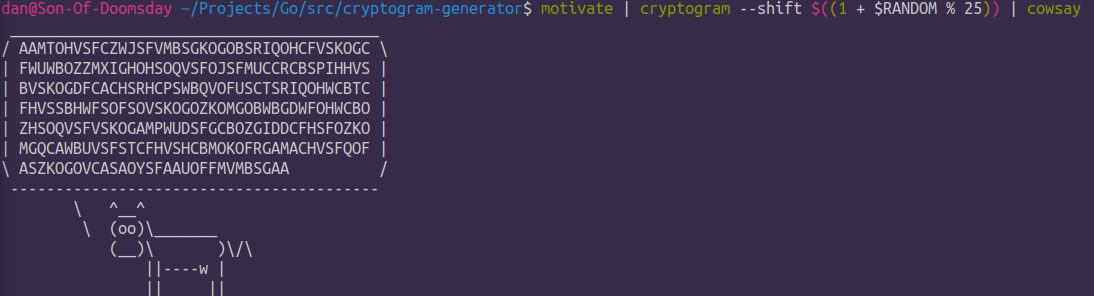
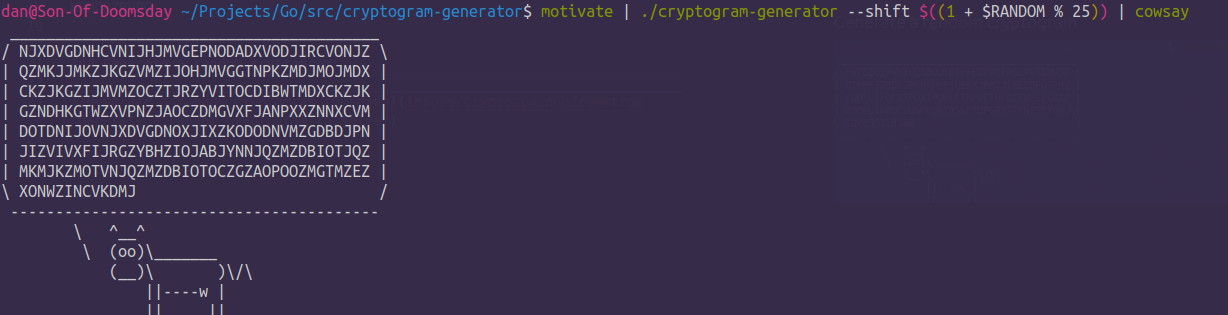
Strip ANSI Color codes and non-alphannumeric chars from stdin

Changed region(s): [[0.0, 0.1216, 0.3419, 1.0], [0.0, 0.0, 0.9945, 0.0608]]

diff --git a/main.go b/main.go
@@ -6,6 +6,7 @@ import (
 	"fmt"
 	"io/ioutil"
 	"os"
+	"regexp"
 	"strings"
 )
 
@@ -31,7 +32,7 @@ func main() {
 			reader := bufio.NewReader(os.Stdin)
 
 			if b, err := ioutil.ReadAll(reader); err != nil {
-				fmt.Println(err)
+				panic(err)
 			} else {
 				msg = strings.TrimSpace(string(b))
 			}
@@ -70,6 +71,8 @@ func generateKey(n int) map[rune]rune {
 func encrypt(key map[rune]rune, msg string) string {
 
 	msg = strings.ToUpper(msg)
+	msg = sanitizeInput(msg)
+
 	var newMsg []rune
 
 	for _, c := range msg {
@@ -84,5 +87,19 @@ func encrypt(key map[rune]rune, msg string) string {
 	encrypted := string(newMsg)
 
 	return encrypted
+
+}
+
+func sanitizeInput(msg string) string {
+
+	// Strip ANSI Color Codes
+	const ansi = "[\u001B\u009B][[\\]()#;?]*(?:(?:(?:[a-zA-Z\\d]*(?:;[a-zA-Z\\d]*)*)?\u0007)|(?:(?:\\d{1,4}(?:;\\d{0,4})*)?[\\dA-PRZcf-ntqry=><~]))"
+	ansiReg := regexp.MustCompile(ansi)
+
+	// Strip non-alpha characters
+	alphaReg := regexp.MustCompile("[^a-zA-Z]+")
+
+	msg = ansiReg.ReplaceAllString(msg, "")
+	return alphaReg.ReplaceAllString(msg, "")
 
 }
